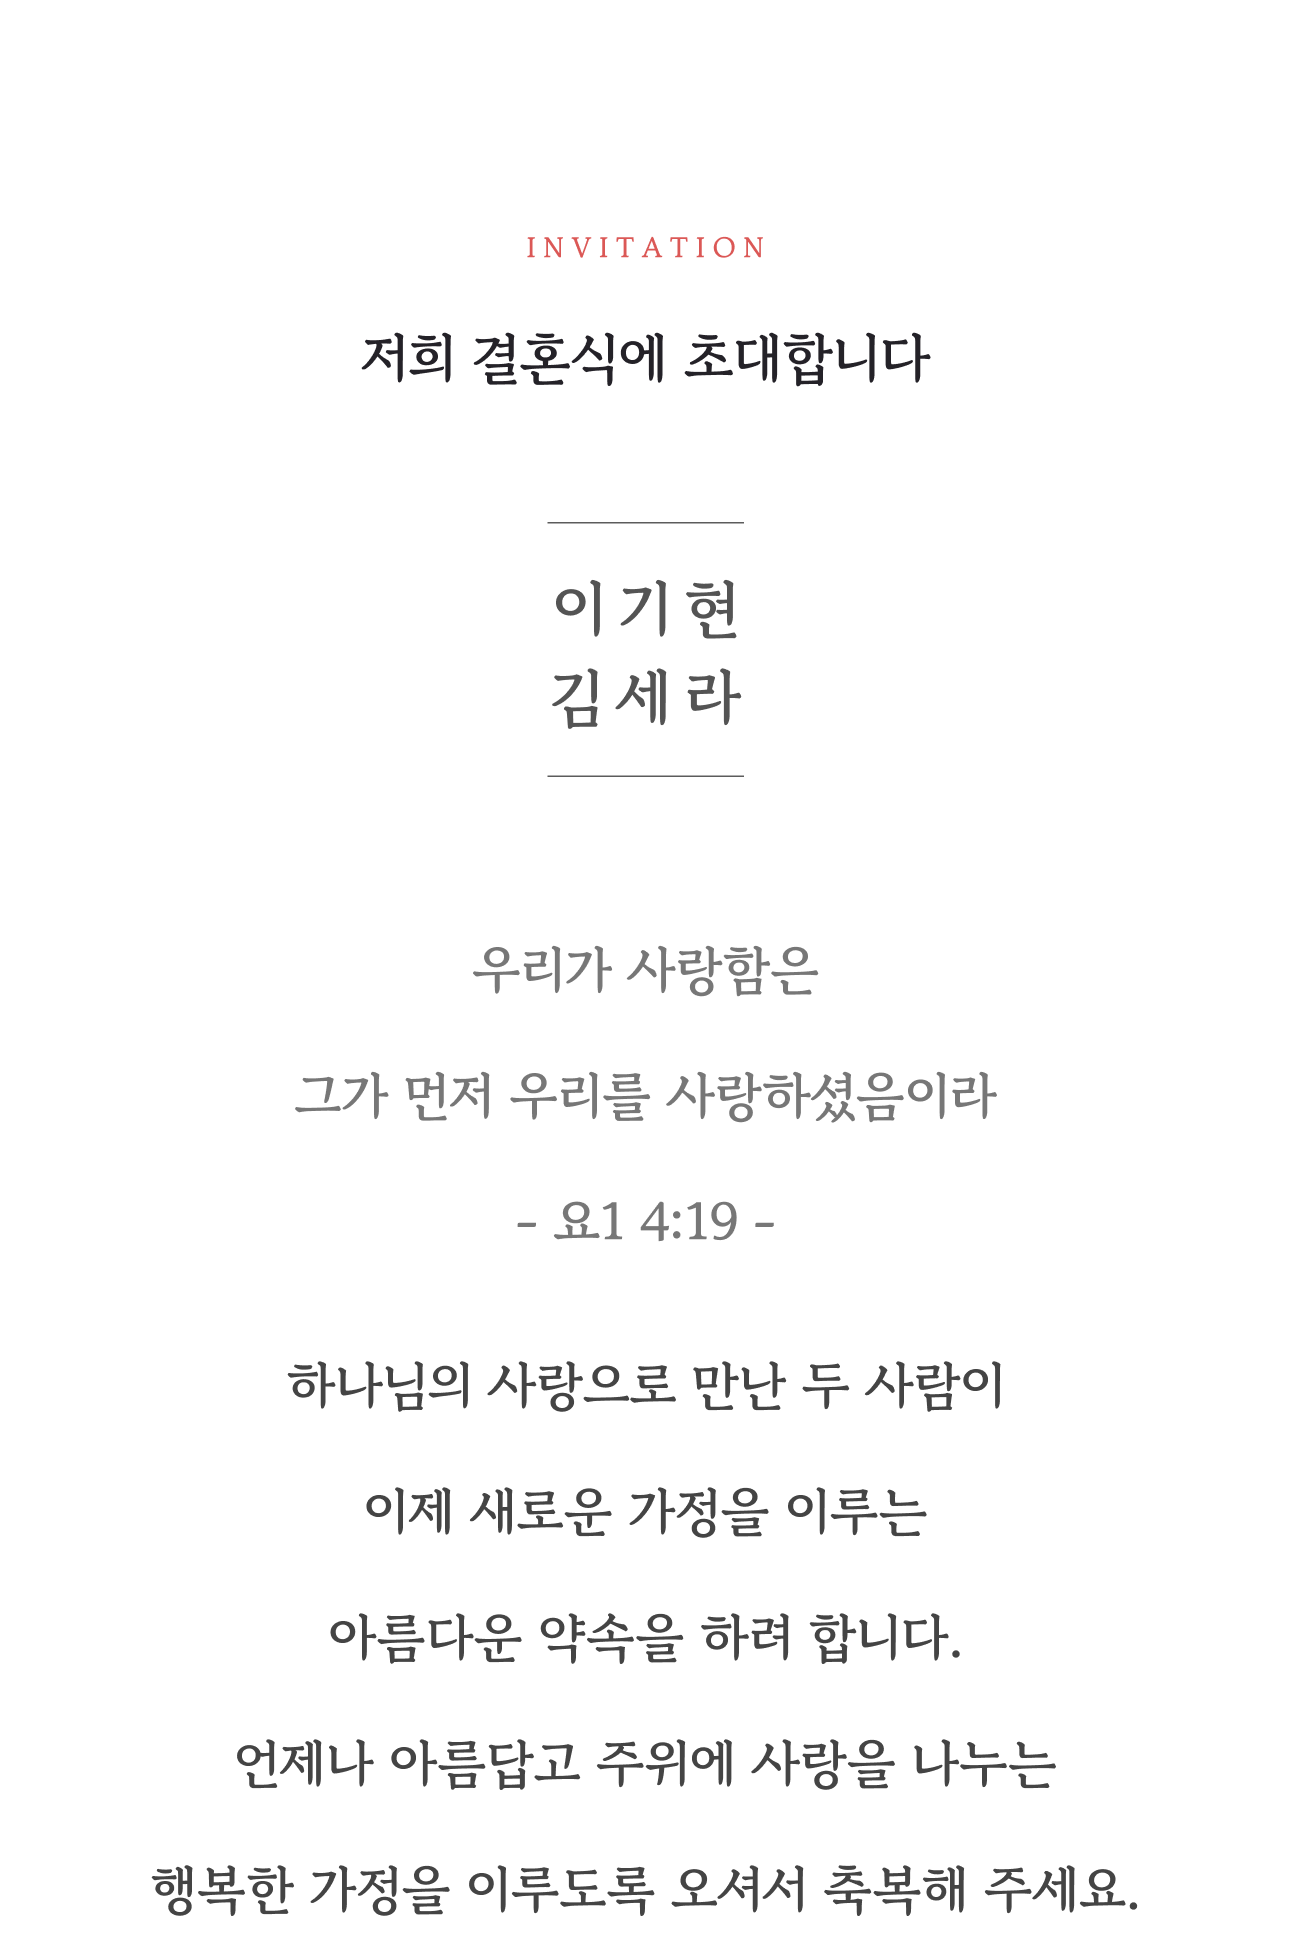
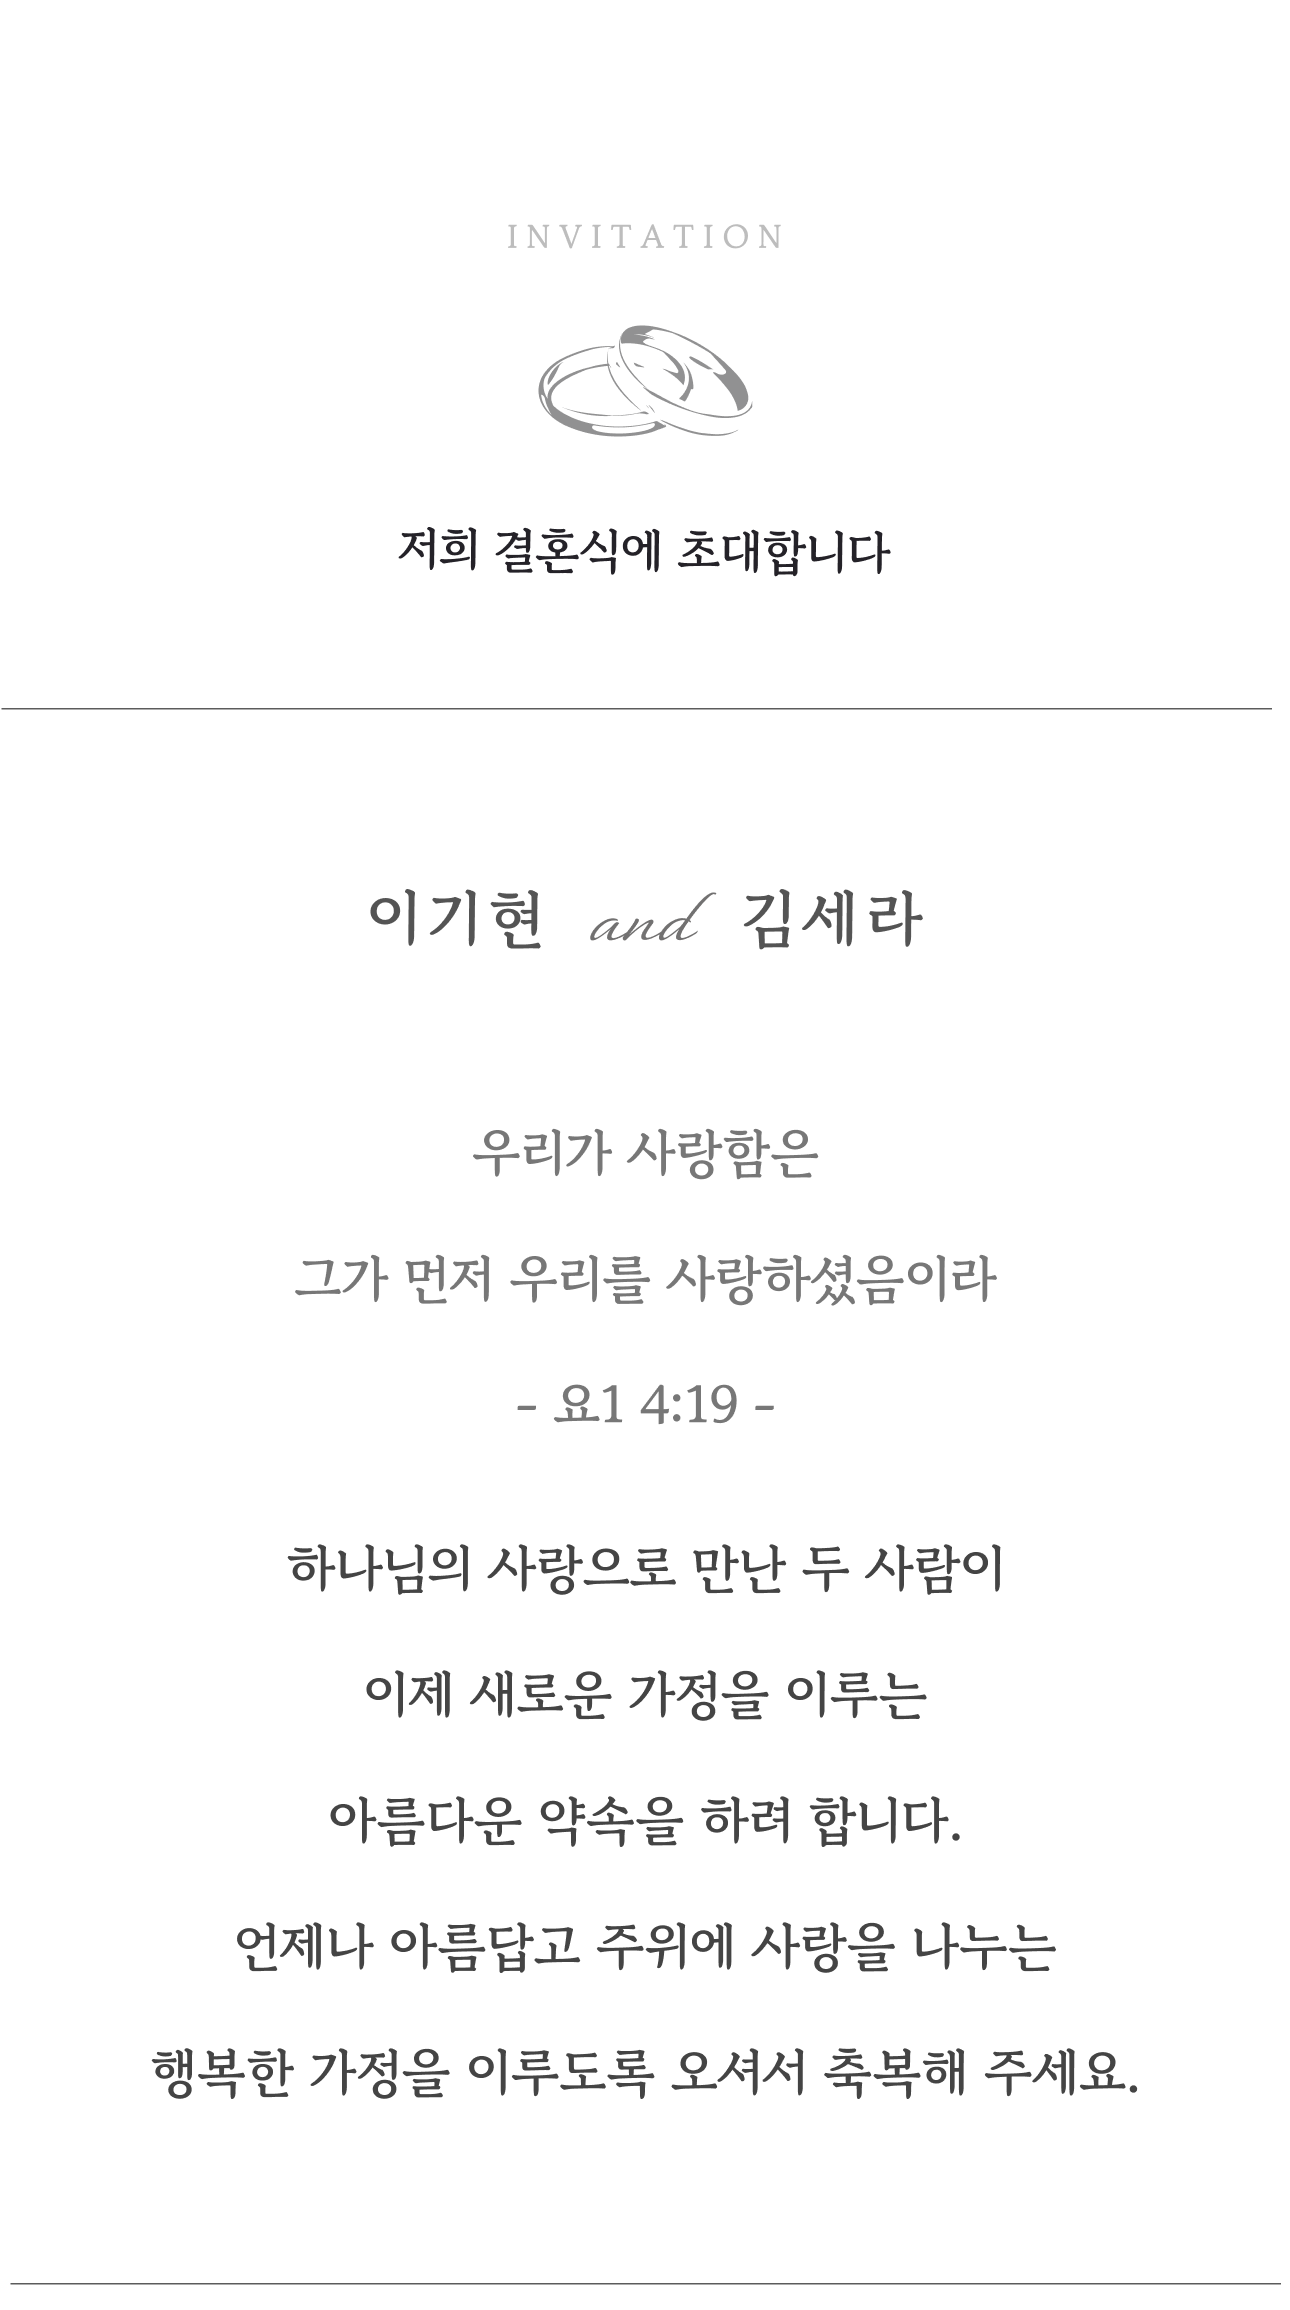
D버전

diff --git a/index.html b/index.html
@@ -159,12 +159,12 @@
         <section id="gallerySection"> 
           <div id="galleryImages" class="gallery">
             <span style="
-            color: #DB5856;
+            color: #BDBDBD;
             font-size: 10px;
             min-width: 3rem;
             display: inline-block;"><b>G A L L E R Y</b></span><br>
             <span style="
-            color: #655047;
+            color: #595959;
             font-size: 20px;
             min-width: 3rem;
             display: inline-block;"><b>우리의 순간</b></span>
@@ -214,7 +214,7 @@
                 <th>SEC</th>
               </tr>
               <tr>
-                <td id="daysLeft" style="color: #DB5856; font-weight: 600">
+                <td id="daysLeft" style="color: #AA68FF; font-weight: 600">
                   119
                 </td>
                 <td>:</td>
@@ -238,7 +238,7 @@
           <div class="animate-on-scroll">
 
             <span style="
-            color: #DB5856;
+            color: #AAAAAA;
             font-size: 9px;
             min-width: 3rem;
             display: inline-block;"><b>L O C A T I O N</b></span>
@@ -325,7 +325,7 @@
         </div>
 
         <!-- map 길찾기 -->
-        <div class="animate-on-scroll" id="MapIconDiv" style="background-color: #E0BDBD;">
+        <div class="animate-on-scroll" id="MapIconDiv" style="background-color: #7A7A7A;">
           <div>
             <a class="maplink" href="https://kko.to/_Dwv9SFxhX">
               <div>

diff --git a/style.css b/style.css
@@ -44,7 +44,7 @@ body {
   right: 2rem;
   width: 13px;
   height: 10px;
-  background-image: url("./img/arrow.png");
+  background-image: url("./img/arrow_w.png");
   background-size: cover;
 }
 
@@ -112,7 +112,7 @@ body {
 }
 
 #gallerySection {
-  background-color: #F4EEEB;
+  background-color: #F5F5F6;
   padding-top: 20%;
 }
 
@@ -120,7 +120,7 @@ body {
   display: grid;
   grid-template-columns: repeat(2, minmax(0, 1fr));
   grid-gap: 5px;
-  background-color: #F4EEEB;
+  background-color: #F5F5F6;
   /* (A2) OPTIONAL WIDTH RESTRICT */
   max-width: 1000px;
   margin: 0 auto;
@@ -219,7 +219,7 @@ body {
 }
 
 .countdownTimeInfo {
-  color: #DB5856;
+  color: #AA68FF;
   font-weight: 600;
 }
 
@@ -261,7 +261,7 @@ body {
 
 #locationSection {
   margin-top: 3%;
-  background-color: #F7F3F3;
+  background-color: #F5F5F6;
   height: 265px;
 }
 
@@ -326,8 +326,8 @@ main {
 }
 
 .accordion {
-  background-color: #E0BDBD;
-  color: black;
+  background-color: #7A7A7A;
+  color: rgb(255, 255, 255);
   cursor: pointer;
   padding: 0.8rem;
   width: 100%;
@@ -418,7 +418,7 @@ main {
 }
 
 #kakaoMapButton {
-  background-color: #E0BDBD;
+  background-color: #7A7A7A;
   padding: 10px;
   text-align: center;
   width: auto;
